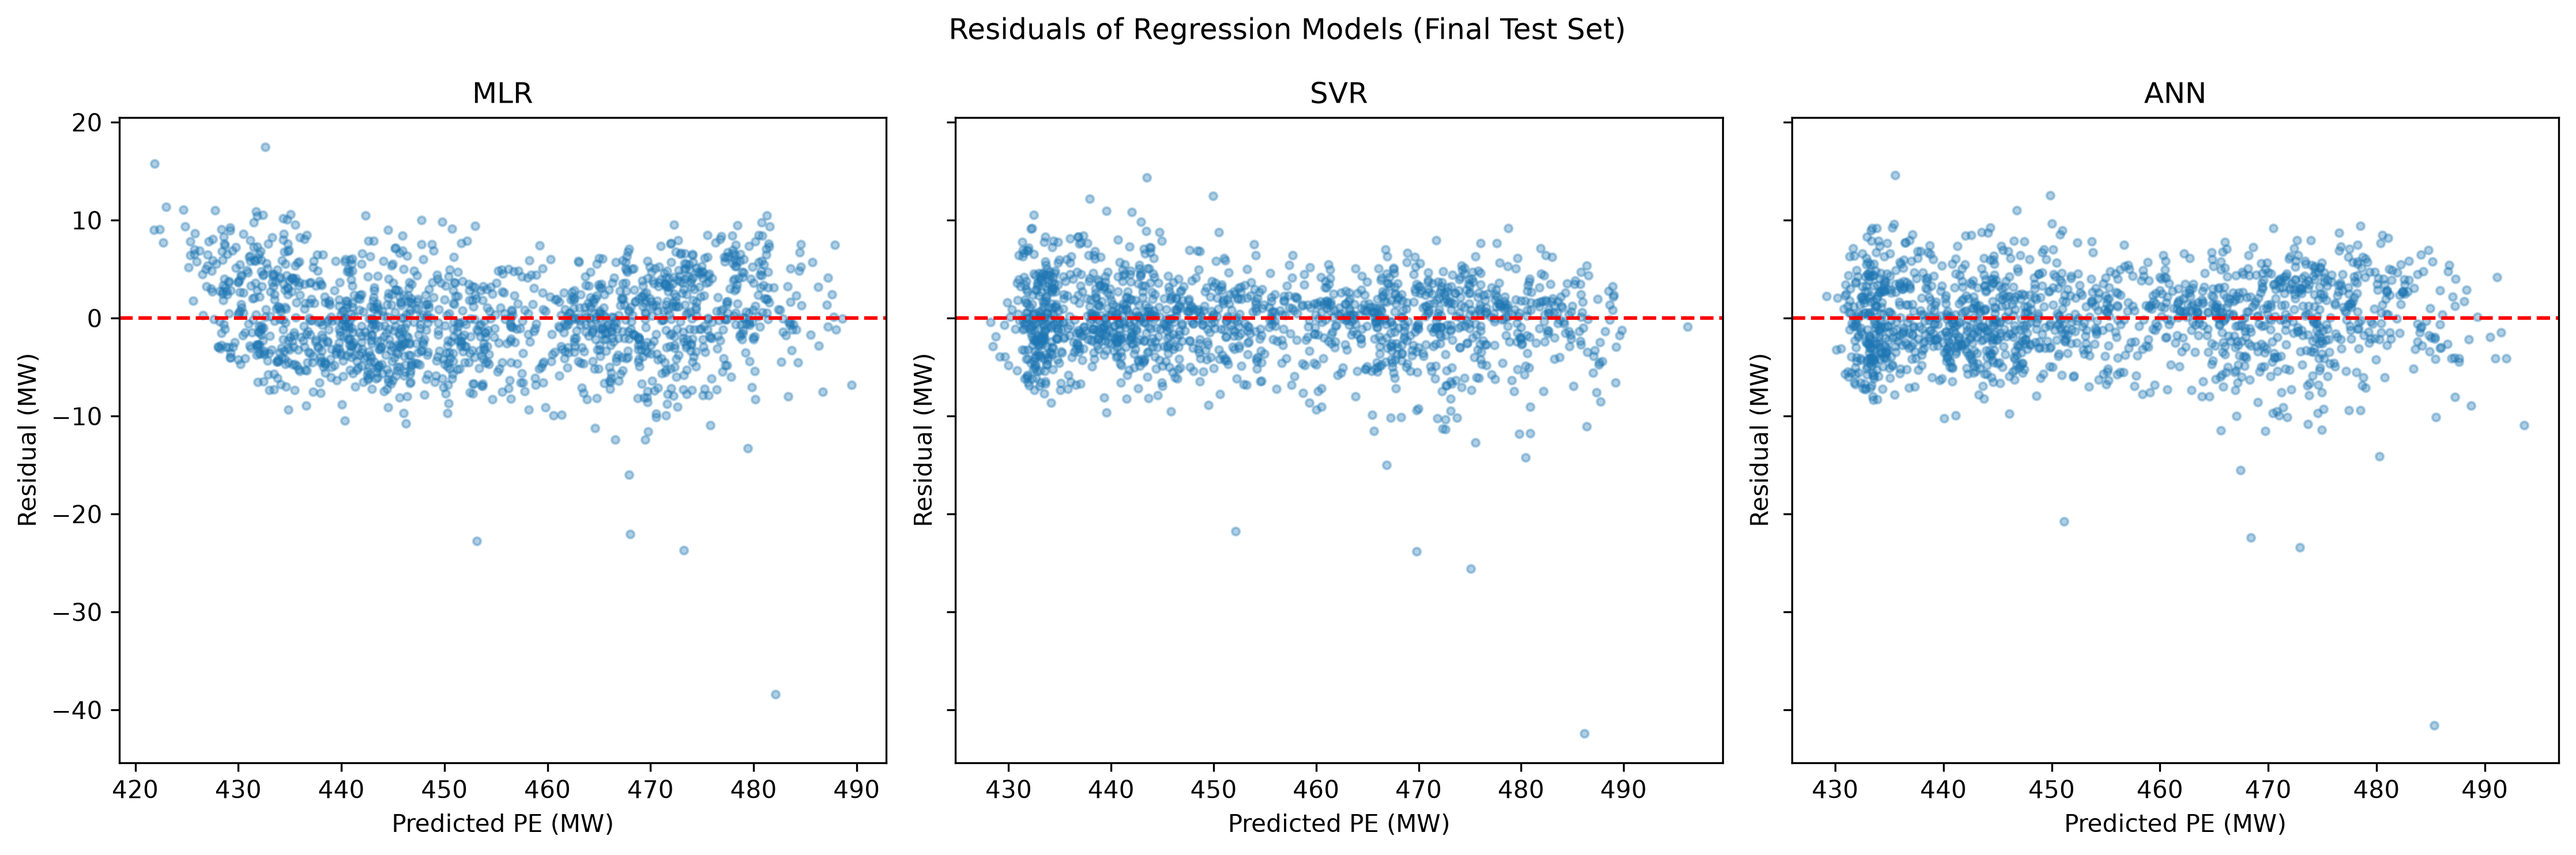
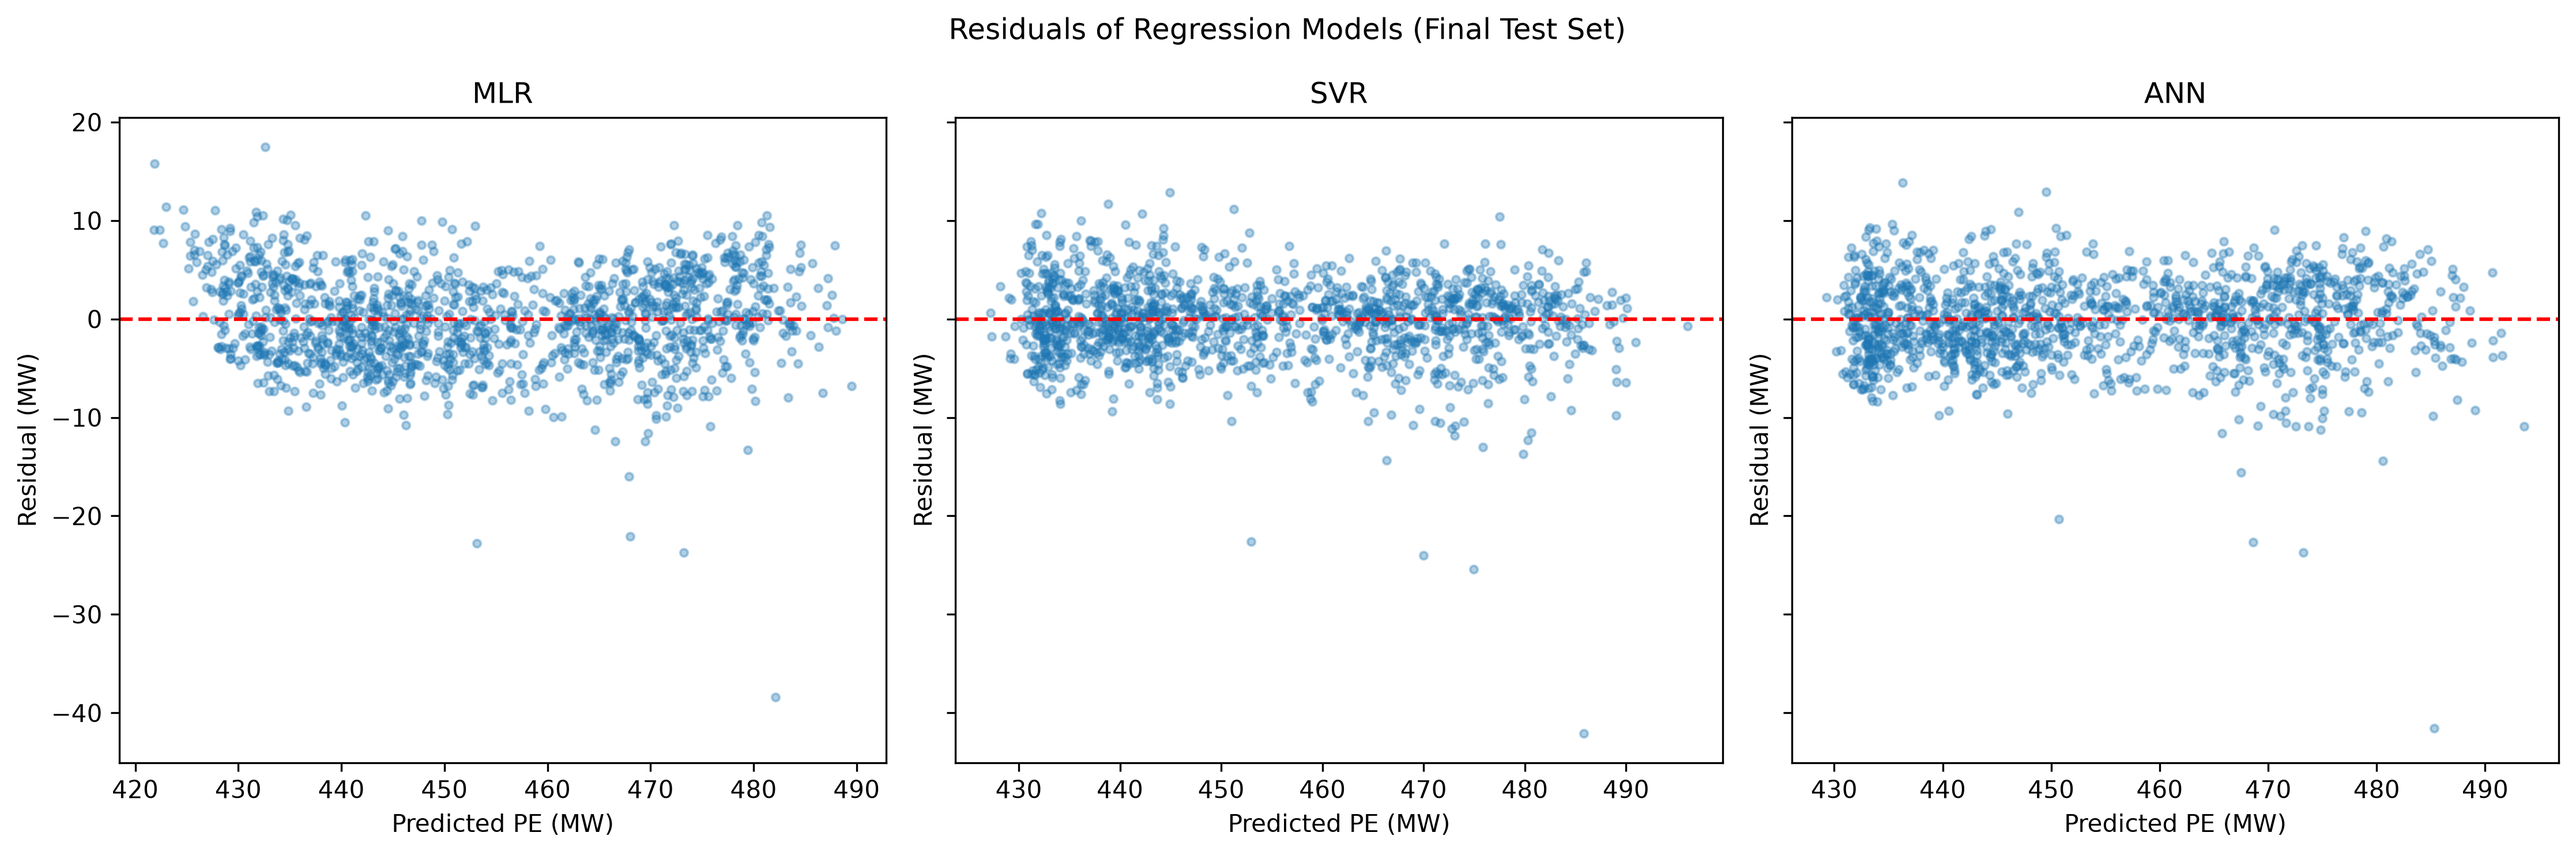
Optimised SVR and ANN hyperparameters, improved prediction time benchmarking, and updated computational results

diff --git a/main.py b/main.py
@@ -28,6 +28,7 @@ Execution:
 
 import time
 import warnings
+import statistics
 from pathlib import Path
 
 import matplotlib
@@ -173,9 +174,9 @@ for feature, coefficient in zip(X_train.columns, mlr_model.coef_):
 # ============================================================
 
 # Hyperparameters investigated using validation RMSE.
-c_values = [1, 10, 100]
-epsilon_values = [0.1, 1.0]
-gamma_values = [0.01, 0.1, 0.3, "scale"]
+c_values = [1, 10, 100, 200]
+epsilon_values = [0.1, 1.0, 1.5]
+gamma_values = [0.01, 0.1, 0.3, 0.5, "scale"]
 
 svr_results = []
 
@@ -267,9 +268,9 @@ print("Detailed results       : svr_tuning_results.csv")
 # ============================================================
 
 # Compare architecture, regularisation and learning rate.
-hidden_layer_options = [(20,), (50,), (50, 25)]
-alpha_values = [0.0001, 0.01]
-learning_rates = [0.001, 0.01]
+hidden_layer_options = [(20,), (50,), (50, 25), (75, 25)]
+alpha_values = [0.0001, 0.01, 0.1]
+learning_rates = [0.0005, 0.001, 0.01]
 
 ann_results = []
 
@@ -423,9 +424,18 @@ for model_name, model in final_models.items():
     model.fit(X_temp, y_temp)
     train_time = time.perf_counter() - start_time
 
-    start_time = time.perf_counter()
+    # Warm up prediction and retain outputs for accuracy evaluation.
     test_pred = model.predict(X_test)
-    predict_time = time.perf_counter() - start_time
+
+    # Measure prediction time over 20 repetitions.
+    prediction_times = []
+
+    for _ in range(20):
+        start_time = time.perf_counter()
+        model.predict(X_test)
+        prediction_times.append(time.perf_counter() - start_time)
+
+    predict_time = statistics.median(prediction_times)
 
     mae, rmse, r2 = evaluate_model(y_test, test_pred)
     final_predictions[model_name] = test_pred
@@ -438,6 +448,15 @@ for model_name, model in final_models.items():
         "Predict Time (s)": predict_time
     })
     print(f"{model_name:<3} | MAE: {mae:.4f} MW | RMSE: {rmse:.4f} MW | R²: {r2:.4f}")
+
+# Display the coefficients of the final MLR model fitted on 85% of the dataset.
+final_mlr = final_models["MLR"]
+
+print("\nFinal MLR coefficients (training + validation):")
+print(f"Intercept : {final_mlr.intercept_:.4f}")
+
+for feature, coefficient in zip(X.columns, final_mlr.coef_):
+    print(f"{feature:<3}       : {coefficient:+.4f}")
 
 final_results_df = pd.DataFrame(final_results).sort_values("RMSE (MW)")
 final_results_df.to_csv(RESULTS_DIR / "model_performance_results.csv", index=False)
@@ -658,7 +677,7 @@ plt.close(fig)
 print("\nDetailed results       : computational_cost_analysis.csv")
 print("Accuracy-cost plot     : accuracy_vs_computational_cost.png")
 print("Note: FLOP estimates exclude scaling and nonlinear function costs.")
-print("Note: Runtime values are from a single measurement per model.")
+print("Note: Training times use single measurements; final prediction times are medians of 20 repetitions.")
 print("=" * 65)
 
 
